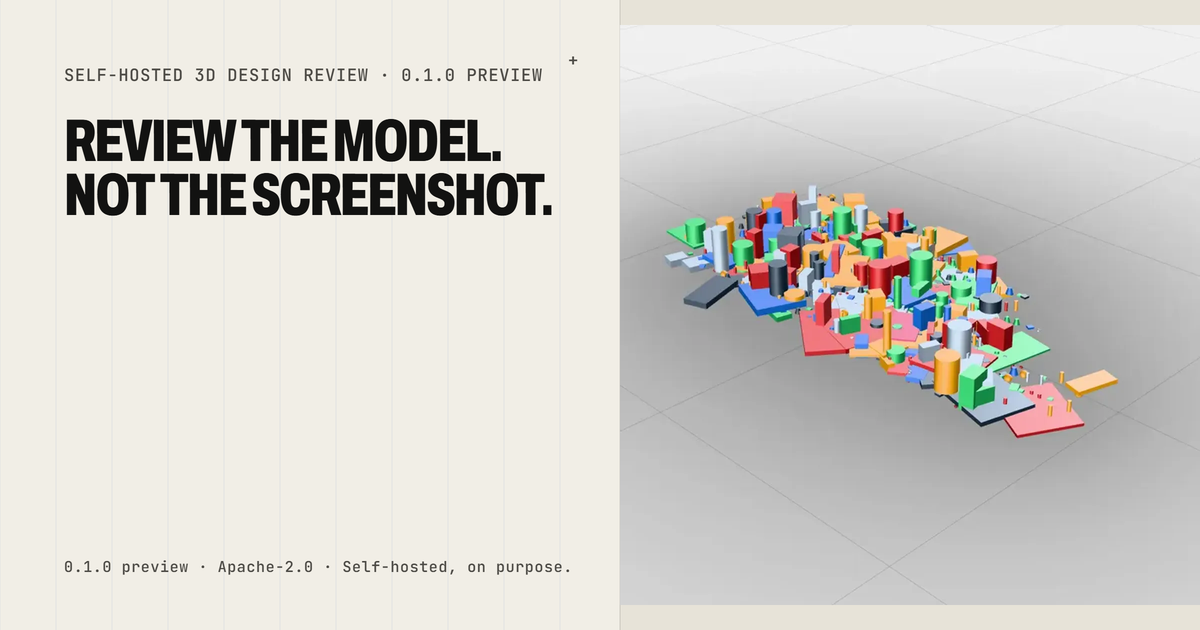
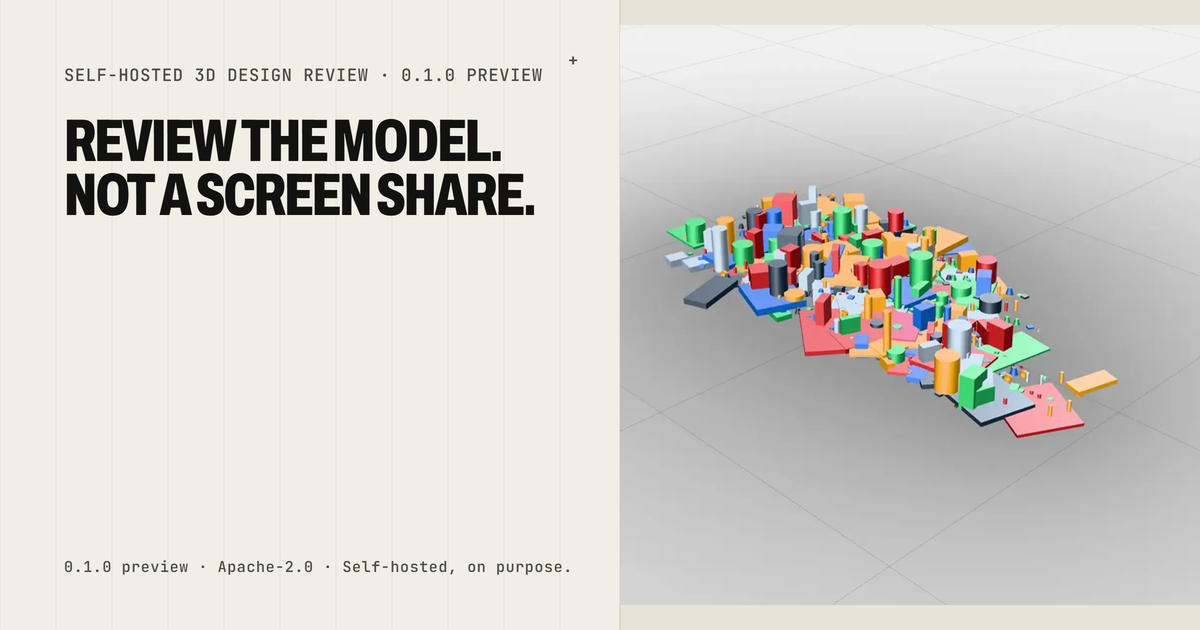
Add the About section and reframe the pitch around screen sharing
About sits at [02], right after Why, with an About link first in the top nav;
later sections are renumbered [03]-[08]. Links to the thesis, Google Scholar
and LinkedIn open in a new tab. The hero, Why and the pinned-comments card now
compare against a video call with a shared screen instead of a screenshot,
including sketching over a view; the OG card is regenerated to match. The
mobile menu sheet closes when one of its links is tapped.

Changed region(s): [[0.1233, 0.2714, 0.4625, 0.3619]]

diff --git a/src/scripts/nav.ts b/src/scripts/nav.ts
@@ -3,6 +3,8 @@
  *  - hides the pill on scroll down, shows it on scroll up (§4)
  *  - `Menu` opens a full-screen sheet: focus moves in, Tab is trapped inside,
  *    Esc closes and focus returns to the button that opened it
+ *  - a link inside the sheet closes it too, without pulling focus back to the
+ *    Menu button, so the browser is free to move to the target
  *  - the sheet is `inert` while closed, so nothing in it is focusable
  */
 
@@ -93,7 +95,12 @@ function openSheet(): void {
   (closeButton ?? focusables()[0])?.focus();
 }
 
-function closeSheet(): void {
+/**
+ * @param restoreFocus pass false when a link inside the sheet was activated:
+ * focus is then left where the click put it, so the browser can move to the
+ * link's target instead of jumping back to the Menu button.
+ */
+function closeSheet(restoreFocus = true): void {
   if (!sheet || !menuToggle || !sheetOpen) return;
   sheetOpen = false;
   sheet.setAttribute('data-open', 'false');
@@ -102,7 +109,7 @@ function closeSheet(): void {
   root().removeAttribute('data-nav-open');
   announceMenu(false);
   document.removeEventListener('keydown', onKeydown);
-  menuToggle.focus();
+  if (restoreFocus) menuToggle.focus();
 }
 
 function root(): HTMLElement {
@@ -114,7 +121,17 @@ menuToggle?.addEventListener('click', () => {
   else openSheet();
 });
 
-closeButton?.addEventListener('click', closeSheet);
+closeButton?.addEventListener('click', () => closeSheet());
+
+/* Any link inside the sheet closes it: on the home page `/#about` is a
+   same-page jump, and the sheet would otherwise stay open over the target.
+   Focus is not pulled back to the Menu button, so the browser can move to it. */
+sheet?.addEventListener('click', (event) => {
+  const { target } = event;
+  if (!(target instanceof Element)) return;
+  if (target.closest('a[href]') === null) return;
+  closeSheet(false);
+});
 
 /* the sheet must not stay open over the desktop pill */
 desktopQuery.addEventListener('change', (event) => {

diff --git a/src/lib/site.ts b/src/lib/site.ts
@@ -18,7 +18,7 @@ export const THEME_KEY = 'va-theme';
 
 /** META — site-wide defaults */
 export const META = {
-  title: 'Viewpoint Arena — review the model, not the screenshot',
+  title: 'Viewpoint Arena — review the model, not a screen share',
   description:
     "A self-hosted room where a small team reviews a 3D model together. Point at parts, follow a view, get risks and actions from the meeting. Runs on one machine.",
 } as const;
@@ -42,6 +42,7 @@ export const PAGE_META = {
 
 /** NAV */
 export const NAV_LINKS = [
+  { label: 'About', href: '/#about' },
   { label: 'How it works', href: '/how-it-works' },
   { label: 'Install', href: '/install' },
   { label: 'Changelog', href: '/changelog' },
